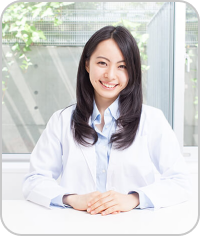
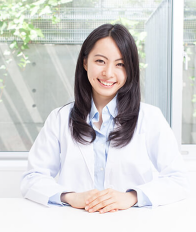
tambah nama psikolog, ganti foto psikolog

diff --git a/database/seeders/PsikologSeeder.php b/database/seeders/PsikologSeeder.php
@@ -17,57 +17,57 @@ class PsikologSeeder extends Seeder
     {
         User::insert([
             [
-            'name' => 'Psikolog 1',
-            'email' => 'psikolog1@gmail.com',
+            'name' => 'Ani Suhandini S.Psi.',
+            'email' => 'anidini@gmail.com',
             'password' => Hash::make('password'),
             'tipeakun' => 'psikolog'
             ],
             [
-                'name' => 'Psikolog 2',
-                'email' => 'psikolog2@gmail.com',
+                'name' => 'Gandi Haryanto, S.Psi',
+                'email' => 'gandiharyanto@gmail.com',
                 'password' => Hash::make('password'),
                 'tipeakun' => 'psikolog'
                 ],
 
                 [
-                    'name' => 'Psikolog 3',
-                    'email' => 'psikolog3@gmail.com',
+                    'name' => 'Raina Yuniar, S.Psi',
+                    'email' => 'rainayuniar@gmail.com',
                     'password' => Hash::make('password'),
                     'tipeakun' => 'psikolog'
                     ],
                     [
-                        'name' => 'Psikolog 4',
-                        'email' => 'psikolog4@gmail.com',
+                        'name' => 'Rheza Andrawida, S.Psi',
+                        'email' => 'rhezaandra@gmail.com',
                         'password' => Hash::make('password'),
                         'tipeakun' => 'psikolog'
                         ],
                         [
-                            'name' => 'Psikolog 5',
-                            'email' => 'psikolog5@gmail.com',
+                            'name' => 'Fariz Prayugo, S.Psi',
+                            'email' => 'farizp@gmail.com',
                             'password' => Hash::make('password'),
                             'tipeakun' => 'psikolog'
                             ],
                             [
-                                'name' => 'Psikolog 6',
-                                'email' => 'psikolog6@gmail.com',
+                                'name' => 'Fitra Hartina, S.Psi',
+                                'email' => 'fitrahartina@gmail.com',
                                 'password' => Hash::make('password'),
                                 'tipeakun' => 'psikolog'
                                 ],
                                 [
-                                    'name' => 'Psikolog 7',
-                                    'email' => 'psikolog7@gmail.com',
+                                    'name' => 'Syahdian Sari, S.Psi',
+                                    'email' => 'syahdiansari@gmail.com',
                                     'password' => Hash::make('password'),
                                     'tipeakun' => 'psikolog'
                                     ],
                                     [
-                                        'name' => 'Psikolog 8',
-                                        'email' => 'psikolog8@gmail.com',
+                                        'name' => 'Ana Mayasari',
+                                        'email' => 'anamayasari@gmail.com',
                                         'password' => Hash::make('password'),
                                         'tipeakun' => 'psikolog'
                                         ],
                                         [
-                                            'name' => 'Psikolog 9',
-                                            'email' => 'psikolog9@gmail.com',
+                                            'name' => 'Dalima Fujiati',
+                                            'email' => 'dalimafuji@gmail.com',
                                             'password' => Hash::make('password'),
                                             'tipeakun' => 'psikolog'
                                             ],
